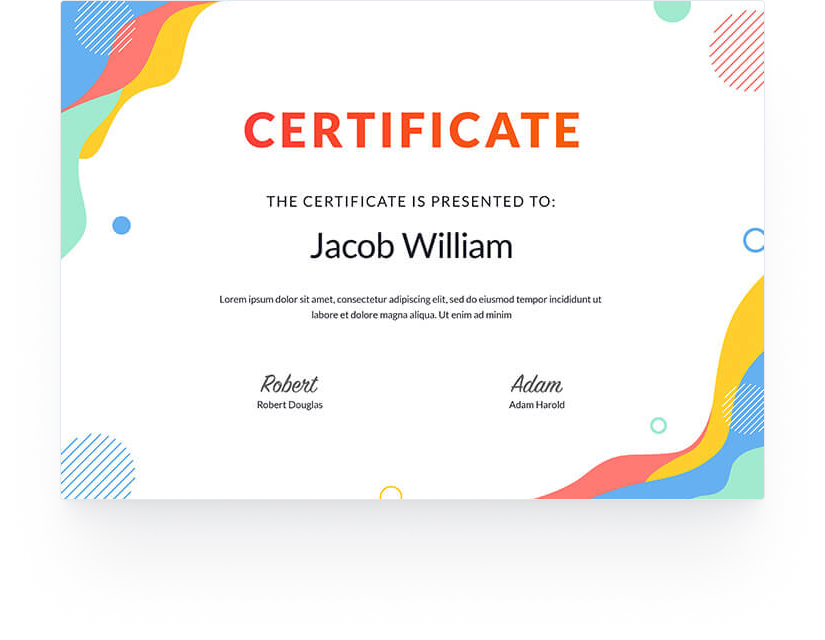
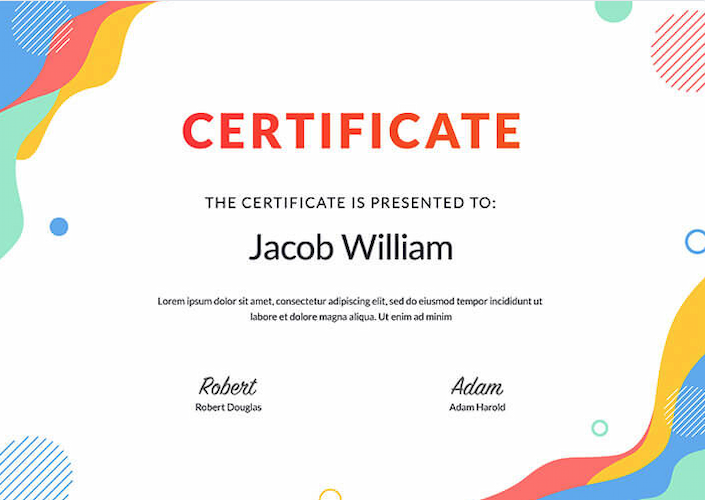
edit html,img,css

diff --git a/homepage.html b/homepage.html
@@ -304,68 +304,138 @@
             </div>
         </section>
         <!-- Certificate -->
-        <section class="section">
-            <div class="container">
+        <section class="certificate-section">
+            <div class="container certificate-container">
+                <div class="certificate-box">
+                    <p class="third-header">Createx Certificate</p>
+                    <h2 class="main-header">Your expertise will be confirmed</h2>
+                    <p class="normal-text certificate-paragraph">We are accredited by international professional
+                        organizations and institutes:
+                    </p>
+                    <ul class="certificate-item">
+                        <li class="logo-company">
+                            <a href="delmarstrategy">
+                                <img src="./img/Del Mar Strategy Logo 1.png" alt="delmarstrategy" width="105"
+                                    height="50">
+                                </img>
+                            </a>
+                        </li>
+                        <li class="logo-company">
+                            <a href="delmarstrategy">
+                                <img src="./img/sentynalconsulting.png" alt="sentynalconsulting" width="105"
+                                    height="50">
+                                </img>
+                            </a>
+                        </li>
+                        <li class="logo-company">
+                            <a href="delmarstrategy">
+                                <img src="./img/National Health Logo 1.png" alt="Health" width="105" height="50">
+                                </img>
+                            </a>
+                        </li>
 
-                <p>Createx Certificate</p>
-                <h2>Your expertise will be confirmed</h2>
-                <p>We are accredited by international professional organizations and institutes:</p>
+                    </ul>
+                </div>
+                <img src="./img/certificate.png" alt="certificate" class="certificate-img">
             </div>
         </section>
         <!-- Team  -->
-        <section class="section">
+        <section class="team-section">
             <div class="container">
                 <!-- Team (carousel) -->
-                <p>Best tutors are all here</p>
-                <h2>Meet our team</h2>
-                <ul>
-                    <li>
-                        <img src="./img/teampng/team1.png" alt="diannerussell">
-                        <p>Dianne Russell</p>
-                        <p>Founder and CEO</p>
+                <div class="team-box">
+                    <div class="team-container-title">
+                        <p class="third-header">Best tutors are all here</p>
+                        <h2 class="main-header">Meet our team</h2>
+                    </div>
+                    <div class="container-buttom">
+                        <button>rigth</button>
+                        <button>left</button>
+                    </div>
+                </div>
+                <ul class="team-raundabout">
+                    <li class="team-raundabout-list">
+                        <div class="team-card">
+                            <img src="./img/teampng/team1.png" alt="diannerussell">
+
+                            <div class="team-social">
+                                <a href=""></a>
+                                <a href=""></a>
+                                <a href=""></a>
+                            </div>
+                        </div>
+                        <div class="team-title">
+                            <p class="team-name">Dianne Russell</p>
+                            <p class="normal-text">Founder and CEO</p>
+                        </div>
                     </li>
-                    <li>
-                        <img src="./img/teampng/team2.png" alt="jeromebell">
-                        <p>Jerome Bell</p>
-                        <p>Founder and Program Director</p>
+                    <li class="team-raundabout-list">
+                        <div class="team-card">
+                            <img src="./img/teampng/team2.png" alt="jeromebell">
+
+                            <div class="team-social">
+                                <a href=""></a>
+                                <a href=""></a>
+                                <a href=""></a>
+                            </div>
+                        </div>
+                        <div class="team-title">
+                            <p class="team-name">Jerome Bell</p>
+                            <p class="normal-text">Founder and Program Director</p>
+                        </div>
                     </li>
-                    <li>
-                        <img src="./img/teampng/team3.png" alt="kristinwatson">
-                        <p>Kristin Watson</p>
-                        <p>Marketer, Curator of Marketing Course</p>
+                    <li class="team-raundabout-list">
+                        <div class="team-card">
+                            <img src="./img/teampng/team3.png" alt="kristinwatson">
+                        </div>
+                        <div class="team-social">
+                            <a href=""></a>
+                            <a href=""></a>
+                            <a href=""></a>
+                        </div>
+                        <div class="team-title">
+                            <p class="team-name">Kristin Watson</p>
+                            <p class="normal-text">Marketer, Curator of Marketing Course</p>
+                        </div>
                     </li>
-                    <li>
-                        <img src="./img/teampng/team4.png" alt="marvinmckinney">
-                        <p>Marvin McKinney</p>
-                        <p>PM, Curator of Management Course</p>
-                    </li>
-                    <li>
-                        <img src="./img/teampng/team5.png" alt="guyhawkins">
-                        <p>Guy Hawkins</p>
-                        <p>Graphic Design</p>
-                    </li>
-                    <li>
-                        <img src="./img/teampng/team6.png" alt="lesliealexanderli">
-                        <p>Leslie Alexander Li</p>
-                        <p>HR Management and Analytics</p>
+                    <li class="team-raundabout-list">
+                        <div class="team-card">
+                            <img src="./img/teampng/team4.png" alt="marvinmckinney">
+                        </div>
+                        <div class="team-social">
+                            <a href=""></a>
+                            <a href=""></a>
+                            <a href=""></a>
+                        </div>
+                        <div class="team-title">
+                            <p class="team-name">Marvin McKinney</p>
+                            <p class="normal-text">PM, Curator of Management Course</p>
+                        </div>
                     </li>
                 </ul>
                 <!-- Testimonials (carousel) -->
-                <p>TESTIMONIALS</p>
-                <h2>What our students say</h2>
-                <button>left</button>
-                <div>
-                    <p>
-                        Lorem ipsum dolor sit amet, consectetur adipiscing elit. Justo, amet lectus quam viverra mus
-                        lobortis fermentum amet,
-                        eu. Pulvinar eu sed purus facilisi. Vitae id turpis tempus ornare turpis quis non. Congue tortor
-                        in
-                        euismod vulputate
-                        etiam eros. Pulvinar neque pharetra arcu diam maecenas diam integer in.
-                    </p>
+                <div class="testimonials">
+                    <div class="testimonials-title">
+                        <p class="bold-text">TESTIMONIALS</p>
+                        <h2 class="main-header ">What our students say</h2>
+                    </div>
+
+                    <div class="testimonials-box">
+                        <button>rigth</button>
+                        <p>
+                            Lorem ipsum dolor sit amet, consectetur adipiscing elit. Justo, amet lectus quam viverra mus
+                            lobortis fermentum amet,
+                            eu. Pulvinar eu sed purus facilisi. Vitae id turpis tempus ornare turpis quis non. Congue
+                            tortor
+                            in
+                            euismod vulputate
+                            etiam eros. Pulvinar neque pharetra arcu diam maecenas diam integer in.
+                        </p>
+                        <button>left</button>
+                    </div>
                 </div>
 
-                <button>rigth</button>
+
             </div>
         </section>
         <!-- Blog -->

diff --git a/style/hederfoot.css b/style/hederfoot.css
@@ -516,6 +516,7 @@ span {
 }
 /* ------------------------EVENTS------------------------ */
 .section-events {
+  min-height: 850px;
   background: linear-gradient(55.95deg, #ff3f3a33 0%, #f75e0533 100%);
 }
 .section-events .third-header {
@@ -534,6 +535,10 @@ span {
   border: none;
   border-radius: 4px;
   background: #ffffff;
+
+  box-shadow: 0px 4px 4px -4px #1e212c0d;
+
+  box-shadow: 0px 12px 10px -6px #ff3f3a14;
 }
 .list-date {
   margin-left: 40px;
@@ -657,6 +662,94 @@ span {
   color: #fff;
   transition: 250ms;
   transition: color 250ms linear;
+}
+
+/* ------------------------Certificate------------------------ */
+.certificate-section {
+  padding-top: 120px;
+  max-height: 578px;
+}
+.certificate-container {
+  display: flex;
+  justify-content: space-between;
+  max-height: 500px;
+}
+.certificate-box {
+  width: 397px;
+  height: 334px;
+}
+.certificate-paragraph {
+  margin-top: 48px;
+}
+.certificate-img {
+  position: relative;
+  box-shadow: 0px 4px 4px -4px #1e212c0d;
+
+  box-shadow: 0px 12px 10px -6px #9a9ca514;
+
+  box-shadow: 0px 30px 24px -10px #9a9ca51a;
+
+  box-shadow: 0px 80px 80px -20px #9a9ca529;
+}
+.certificate-item {
+  display: flex;
+  margin-top: 32px;
+}
+.logo-company + .logo-company {
+  margin-left: 40px;
+}
+/* ------------------------TEAM------------------------ */
+.team-section {
+  padding-top: 166px;
+  background: #f4f5f6;
+}
+.team-box {
+  display: flex;
+  justify-content: space-between;
+  align-items: flex-end;
+}
+.team-raundabout {
+  padding-top: 60px;
+  display: flex;
+}
+.team-raundabout-list {
+  width: 285px;
+  height: 416px;
+}
+.team-raundabout-list + .team-raundabout-list {
+  margin-left: 30px;
+}
+.team-card {
+  padding: 20px 20px 0 20px;
+
+  height: 340px;
+  width: 285px;
+  left: 0px;
+  top: 0px;
+  border-radius: 4px;
+
+  background: #ffcf2d;
+}
+.team-title {
+  text-align: center;
+  margin-top: 16px;
+}
+.team-name {
+  font-size: 20px;
+  font-style: normal;
+  font-weight: 700;
+  line-height: 30px;
+  letter-spacing: 0em;
+}
+.team-title .normal-text {
+  color: #787a80;
+}
+.testimonials {
+  margin-top: 180px;
+  /* display: flex; */
+}
+.testimonials-box {
+  display: flex;
 }
 /* ------------------------FOOTER------------------------ */
 

diff --git a/style/hpage.css b/style/hpage.css
@@ -15,6 +15,11 @@ body {
   font-size: 16px;
   font-weight: 400;
 }
+:root {
+  --accent-color: #ff3f3a;
+  --main-text-color: #1e212c;
+  --second-text-color: #424551;
+}
 .container {
   width: 1260px;
   padding-left: 15px;
